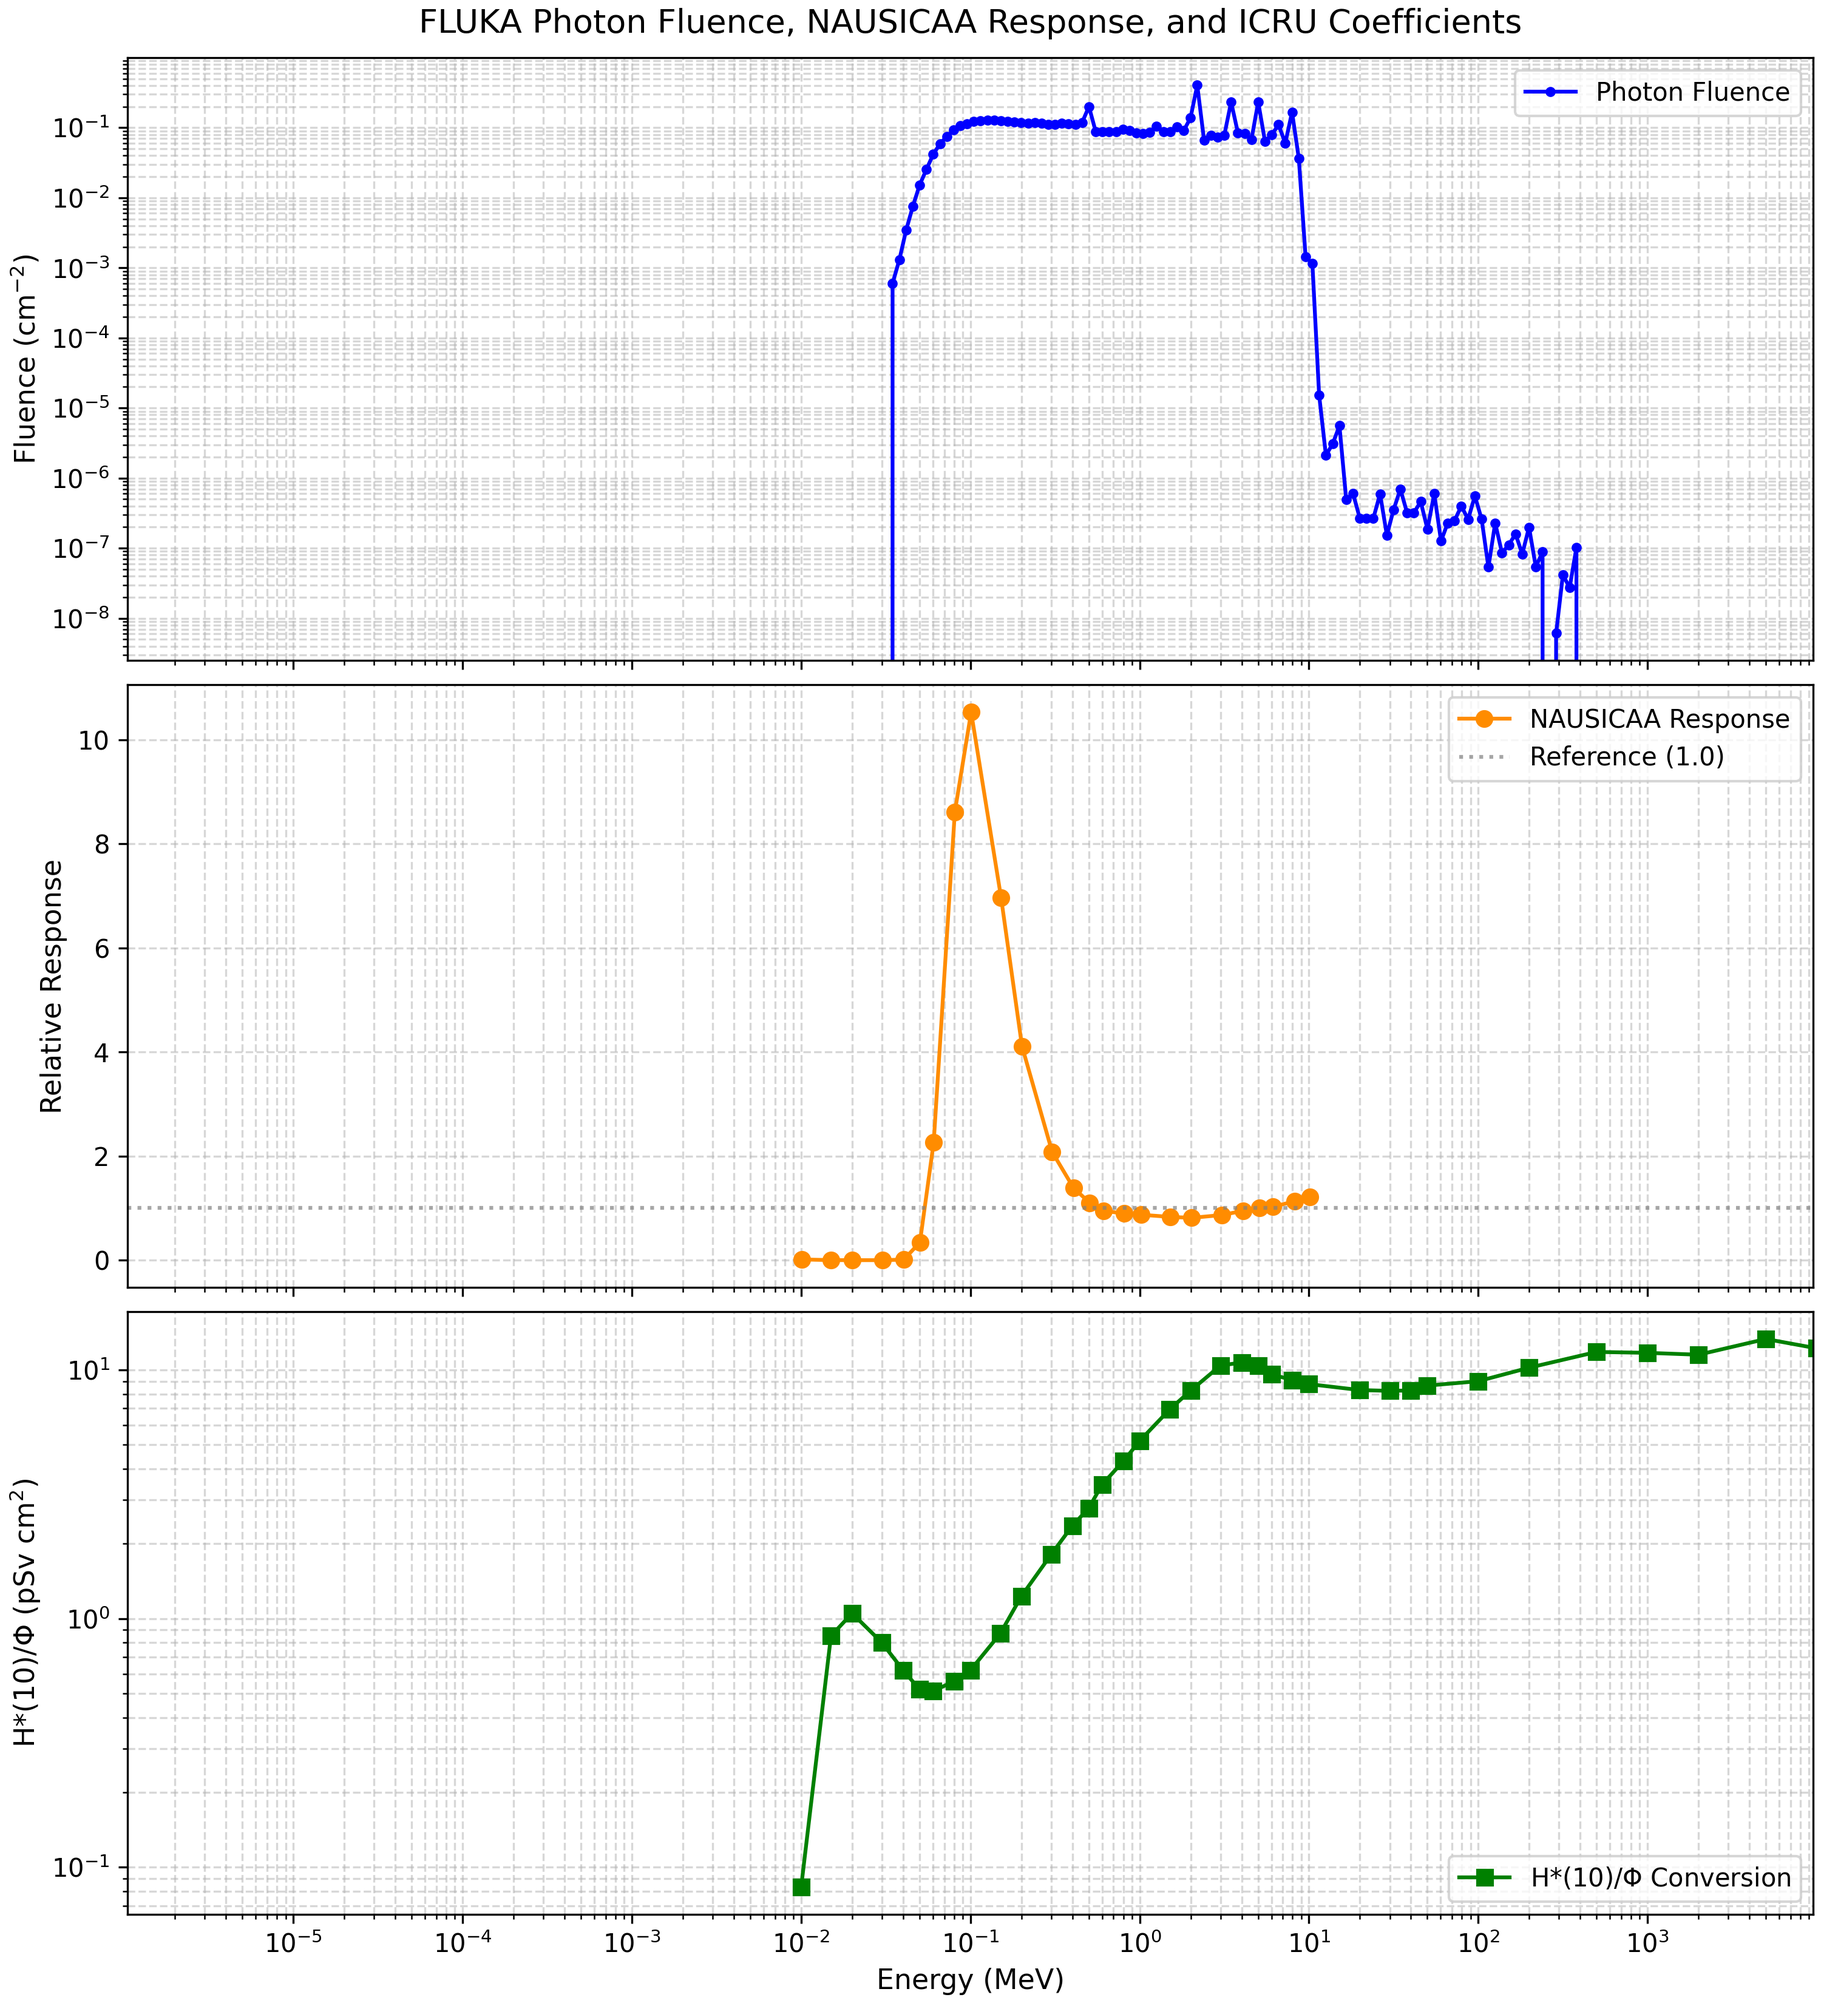
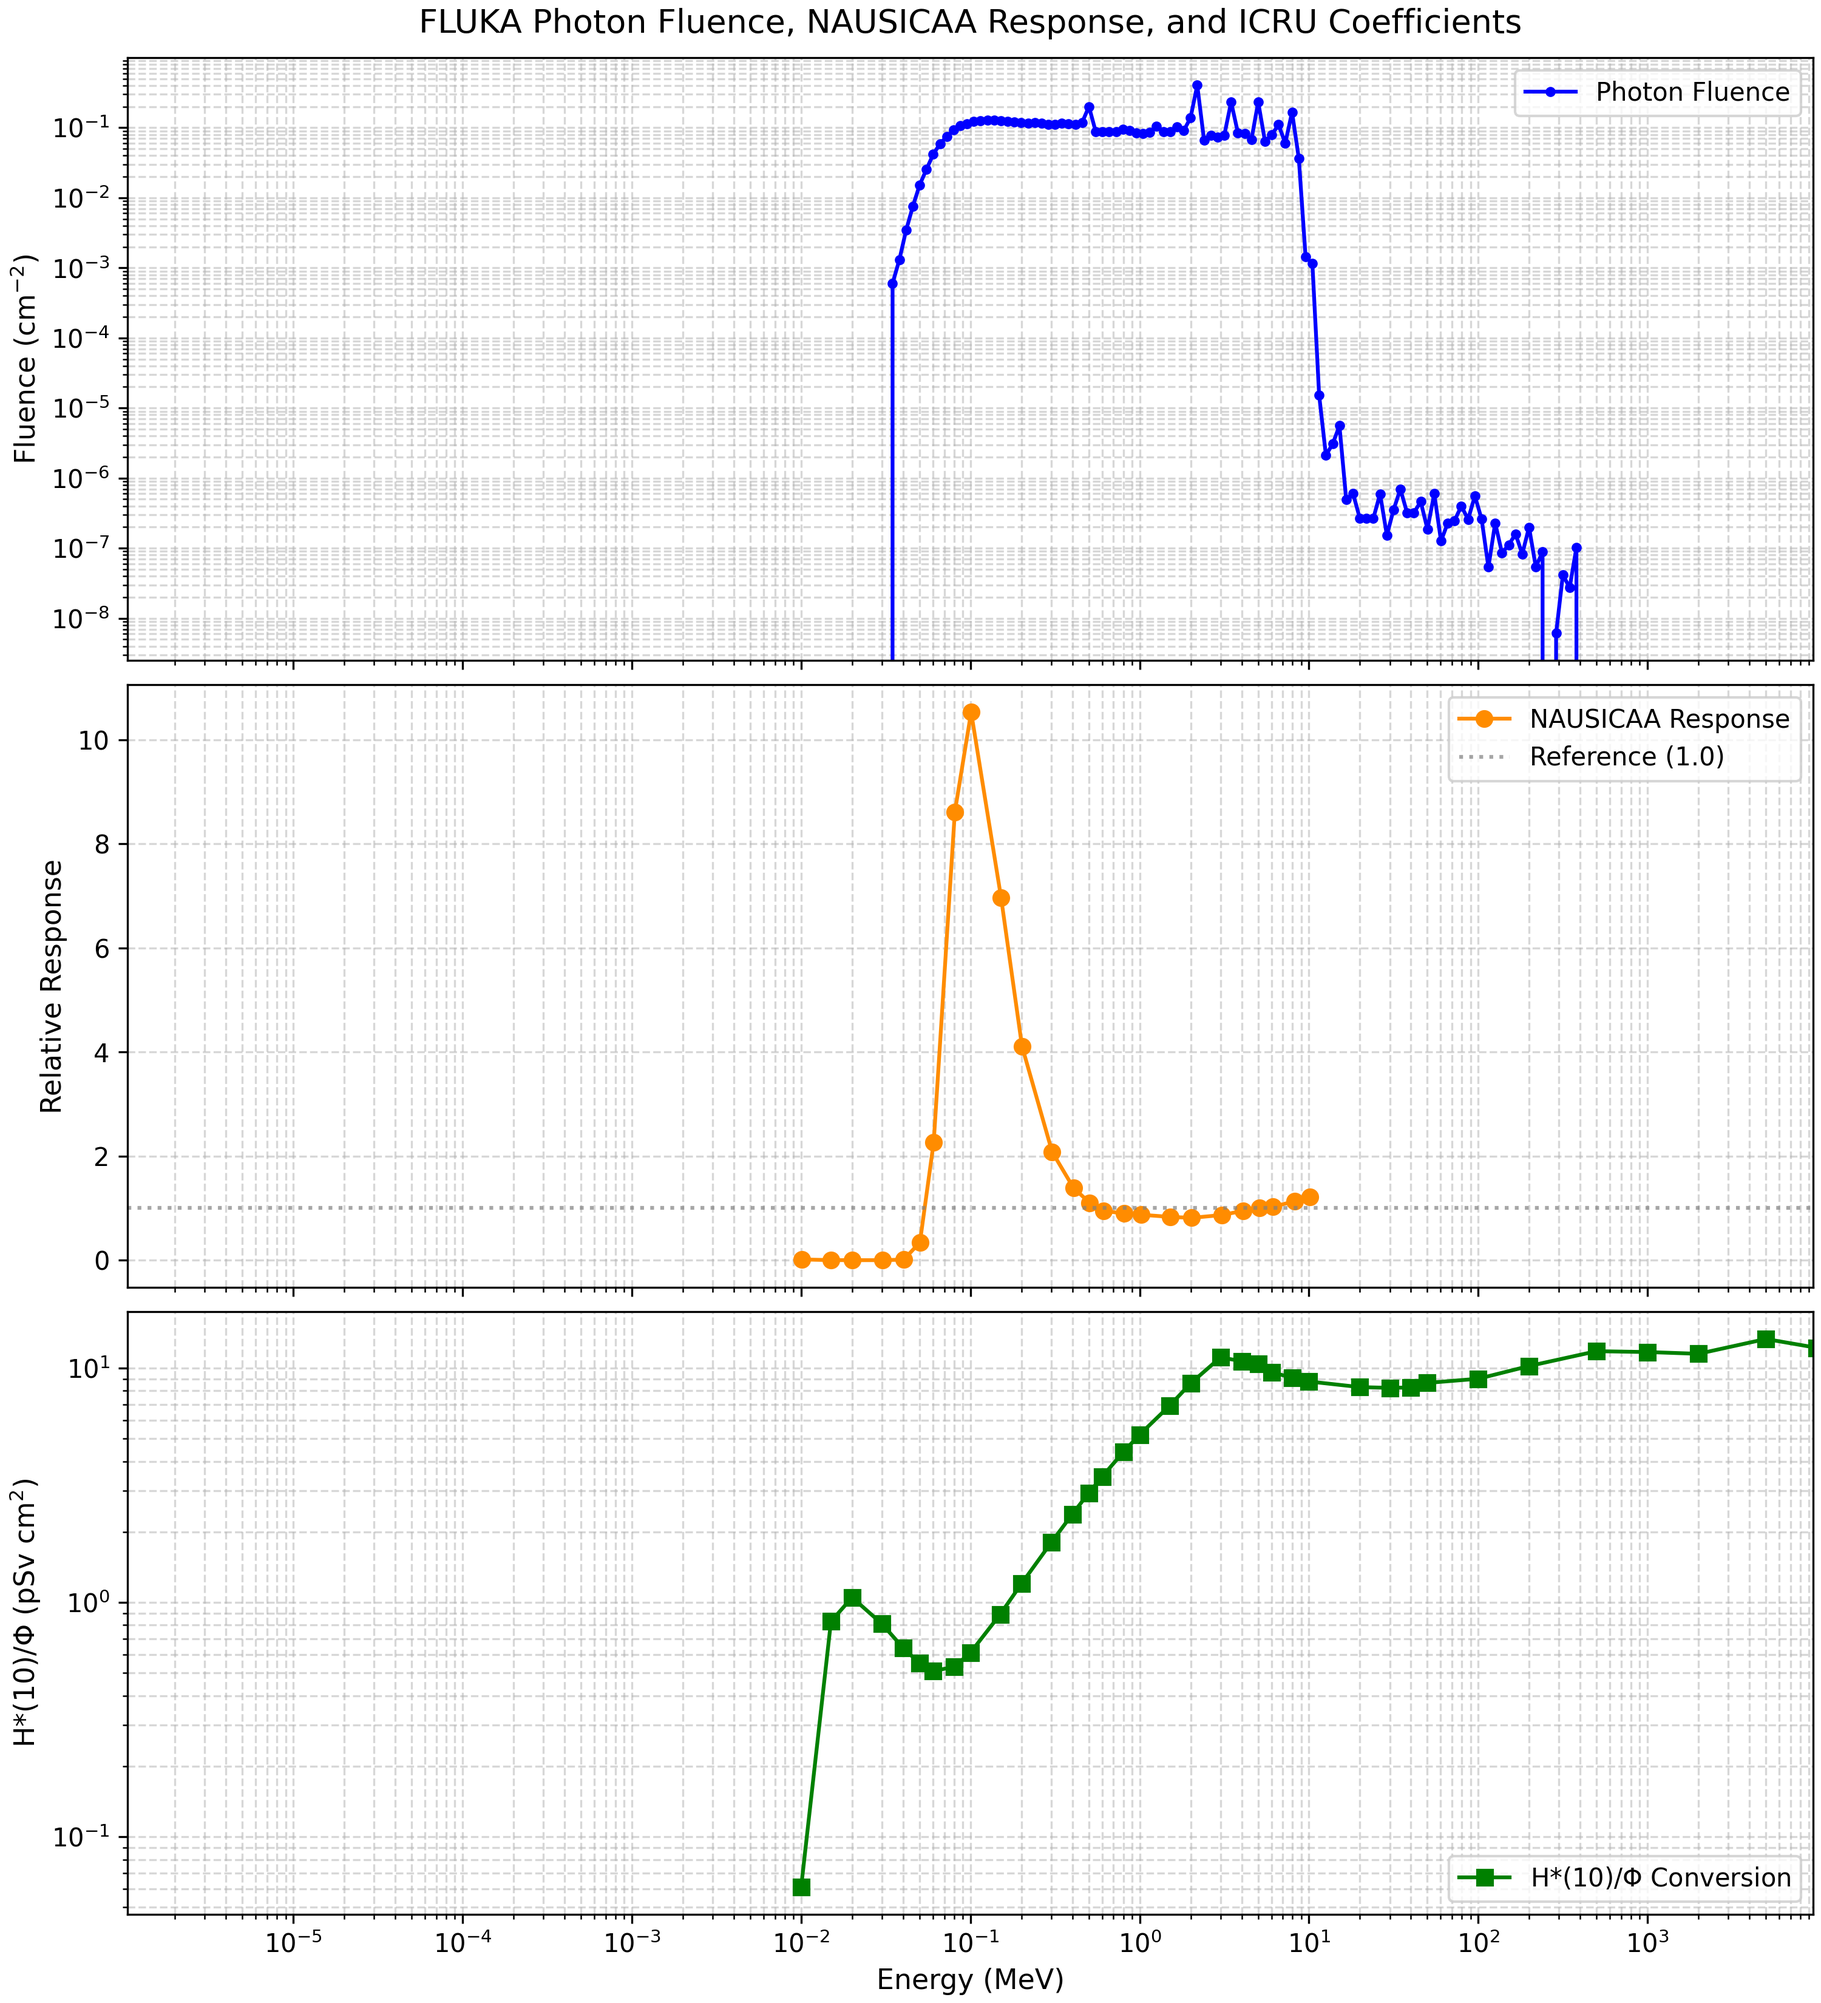
Use ICRP74 conv factor in NAUSICAA_folding
Use the ICRP74 photon conv factors up to 3 MeV and the Pelliccioni
extension for photons above 3 MeV for the NAUSICAA correction analysis.
The 3 MeV overlap was chosen because at this energy the KERMA
approximation used in the ICRP74 method is still valid and the data
agree well with the Pelliccioni method.

diff --git a/SwissFEL25/NAUSICAA_responsefolding/NAUSICAA_folding.py b/SwissFEL25/NAUSICAA_responsefolding/NAUSICAA_folding.py
@@ -138,26 +138,72 @@ plt.show()
 #    0.01, 0.015, 0.020, 0.030, 0.040, 0.050, 0.060, 0.080, 0.100, 0.150, 0.200, 0.300, 0.400, 0.500, 0.600, 0.800, 1, 1.5, 2, 3, 4, 5, 6, 8, 10,
 #    20.0, 30.0, 40.0, 50.0, 60.0, 80.0, 100.0
 #])
-icru_energy_mev = np.array([
-    0.01, 0.015, 0.02, 0.03, 0.04, 0.05, 0.06, 0.08, 0.1, 0.15,
-    0.2, 0.3, 0.4, 0.5, 0.6, 0.8, 1.0, 1.5, 2.0, 3.0, 4.0, 5.0,
-    6.0, 8.0, 10.0, 20.0, 30.0, 40.0, 50.0, 100.0, 200.0, 500.0,
-    1000.0, 2000.0, 5000.0, 10000.0
-])
 
 #icru_h10_psv_cm2 = np.array([
 #    0.061, 0.83, 1.05, 0.81, 0.64, 0.55, 0.51, 0.53, 0.61, 0.89, 1.20, 1.80, 2.38, 2.93, 3.44, 4.38, 5.2, 6.9, 8.6, 11.1, 13.4, 15.5, 17.6, 21.6, 25.6,
 #    27.5, 30.4, 32.2, 33.6, 34.6, 35.8, 36.8
 #])
-icru_h10_psv_cm2 = np.array([
+
+# --- ICRP 74 standard reference values for photons ---
+icrp74_photons_energy_mev = np.array([
+    1.00e-02, 1.50e-02, 2.00e-02, 3.00e-02, 4.00e-02, 5.00e-02, 6.00e-02,
+    8.00e-02, 1.00e-01, 1.50e-01, 2.00e-01, 3.00e-01, 4.00e-01, 5.00e-01,
+    6.00e-01, 8.00e-01, 1.00e+00, 1.50e+00, 2.00e+00, 3.00e+00, 4.00e+00,
+    5.00e+00, 6.00e+00, 8.00e+00, 1.00e+01
+])
+
+icrp74_photons_h10_sv_cm2 = np.array([
+    6.10e-14, 8.30e-13, 1.05e-12, 8.10e-13, 6.40e-13, 5.50e-13, 5.10e-13,
+    5.30e-13, 6.10e-13, 8.90e-13, 1.20e-12, 1.80e-12, 2.38e-12, 2.93e-12,
+    3.44e-12, 4.38e-12, 5.20e-12, 6.90e-12, 8.60e-12, 1.11e-11, 1.34e-11,
+    1.55e-11, 1.76e-11, 2.16e-11, 2.56e-11
+])
+
+# --- Pelliccioni high-energy extension values for photons ---
+pelliccioni_photons_energy_mev = np.array([
+    1.0e-02, 1.5e-02, 2.0e-02, 3.0e-02, 4.0e-02, 5.0e-02, 6.0e-02, 8.0e-02,
+    1.0e-01, 1.5e-01, 2.0e-01, 3.0e-01, 4.0e-01, 5.0e-01, 6.0e-01, 8.0e-01,
+    1.0e+00, 1.5e+00, 2.0e+00, 3.0e+00, 4.0e+00, 5.0e+00, 6.0e+00, 8.0e+00,
+    1.0e+01, 2.0e+01, 3.0e+01, 4.0e+01, 5.0e+01, 1.0e+02, 2.0e+02, 5.0e+02,
+    1.0e+03, 2.0e+03, 5.0e+03, 1.0e+04
+])
+
+pelliccioni_photons_h10_sv_cm2 = np.array([
     8.33e-14, 8.52e-13, 1.05e-12, 0.80e-12, 0.62e-12, 0.52e-12, 0.51e-12,
     0.56e-12, 0.62e-12, 0.87e-12, 1.23e-12, 1.81e-12, 2.36e-12, 2.78e-12,
     3.46e-12, 4.29e-12, 5.18e-12, 6.92e-12, 8.25e-12, 1.04e-11, 1.07e-11,
     1.04e-11, 9.58e-12, 9.10e-12, 8.76e-12, 8.29e-12, 8.23e-12, 8.26e-12,
     8.64e-12, 9.00e-12, 1.02e-11, 1.18e-11, 1.17e-11, 1.15e-11, 1.33e-11,
     1.22e-11
-]) # this is in Sv
-icru_h10_psv_cm2 = icru_h10_psv_cm2 * 1e12 # now in pSv
+])
+
+# --- Merge datasets: ICRP74 up to 3 MeV, Pelliccioni above 3 MeV ---
+# We used 3 MeV instead of 10 MeV to cross the two functions
+# because at 3 MeV the KERMA approximation is still valid and the
+# Pelliccioni method agrees well with the ICRP74 method.
+# At 10 MeV this approximation is no longer valid and the two lines
+# do not agree on the convertion factor.
+# Filter ICRP74 data up to 3 MeV (inclusive)
+icrp_mask_photons = icrp74_photons_energy_mev <= 3.0
+
+# Filter Pelliccioni data strictly above 10.0 MeV
+pell_mask_photons = pelliccioni_photons_energy_mev > 3.0
+
+icru_photons_energy_mev = np.concatenate([
+    icrp74_photons_energy_mev[icrp_mask_photons],
+    pelliccioni_photons_energy_mev[pell_mask_photons]
+])
+
+icru_photons_h10_sv_cm2 = np.concatenate([
+    icrp74_photons_h10_sv_cm2[icrp_mask_photons],
+    pelliccioni_photons_h10_sv_cm2[pell_mask_photons]
+])
+
+# --- Convert Sv * cm^2 to pSv * cm^2 (1 Sv = 1e12 pSv) ---
+icru_photons_h10_psv_cm2 = icru_photons_h10_sv_cm2 * 1e12
+
+icru_energy_mev = icru_photons_energy_mev
+icru_h10_psv_cm2 = icru_photons_h10_psv_cm2
 
 # Log-log interpolation of ICRU conversion coefficients to match FLUKA bin centers
 # Using log10 for both axes is standard for dosimetric data interpolation
